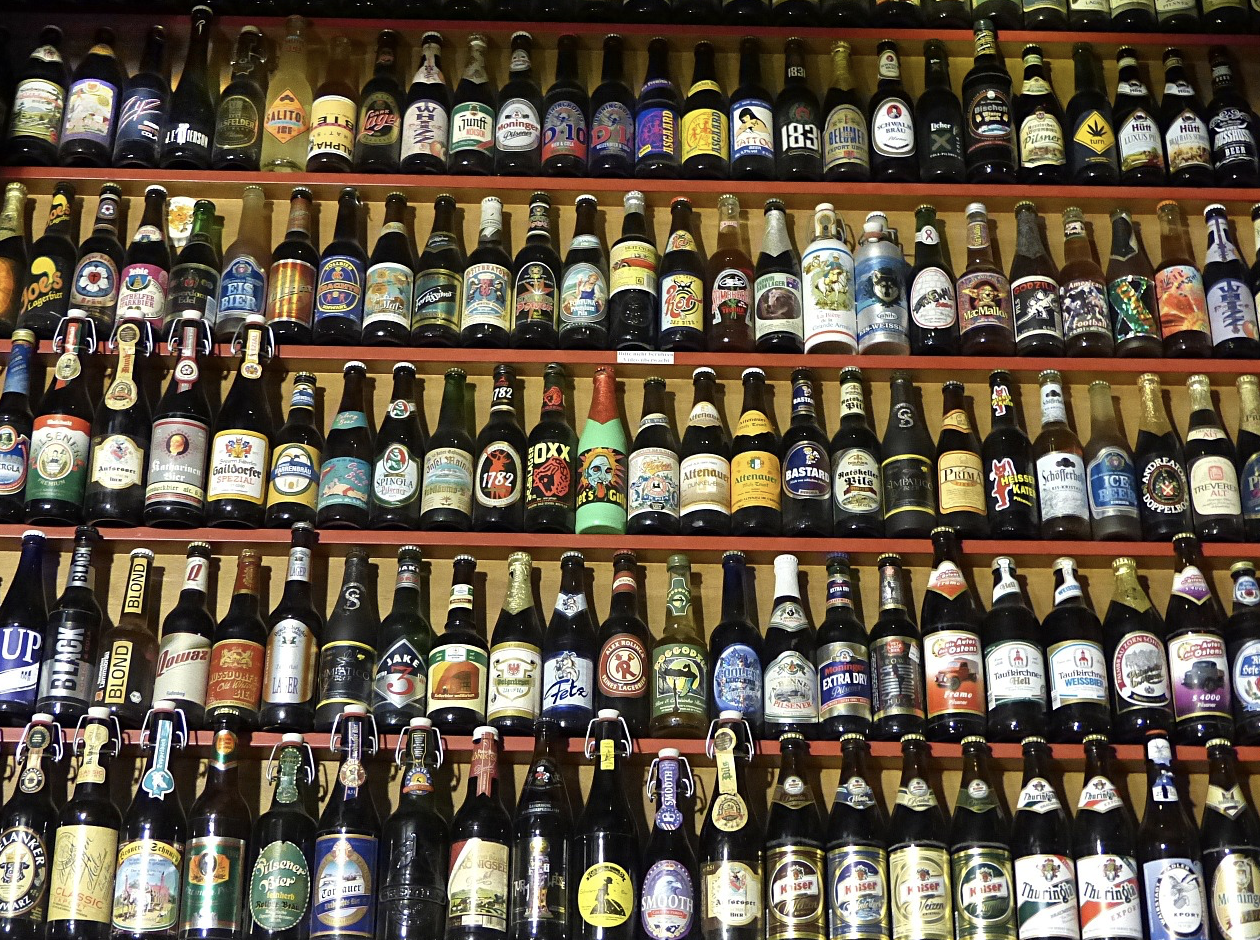
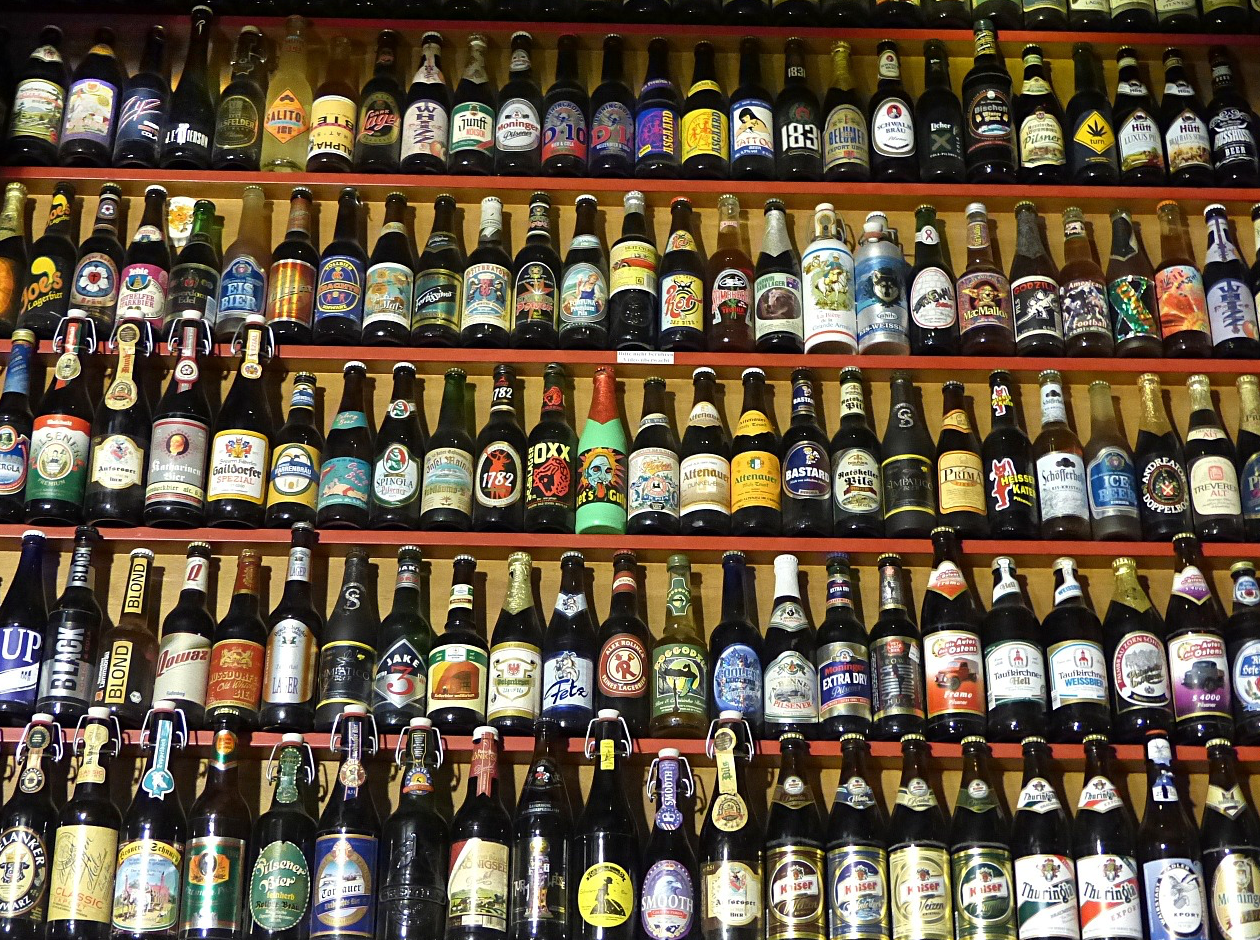
resize the image for the post

diff --git a/_site/index.html b/_site/index.html
@@ -1,1 +1,1 @@
-<!DOCTYPE html> <html lang="en" itemscope itemtype="http://schema.org/WebPage"> <head> <meta charset="utf-8"> <meta http-equiv="X-UA-Compatible" content="IE=edge"> <meta name="viewport" content="width=device-width, initial-scale=1"> <title>INNcyclopedia</title> <meta name="description" content="INN's encyclodpedia."> <!-- Social: Twitter --> <meta name="twitter:card" content="summary_large_image"> <meta name="twitter:site" content="@"> <meta name="twitter:title" content="INNcyclopedia"> <meta name="twitter:description" content="INN's encyclodpedia."> <meta property="twitter:image:src" content="http://localhost:4000/assets/img/blog-image.png"> <!-- Social: Facebook / Open Graph --> <meta property="og:url" content="http://localhost:4000/"> <meta property="og:title" content="INNcyclopedia"> <meta property="og:image" content="http://localhost:4000/assets/img/blog-image.png"> <meta property="og:description" content="INN's encyclodpedia."> <meta property="og:site_name" content="INNcyclopedia"> <!-- Social: Google+ / Schema.org --> <meta itemprop="name" content="INNcyclopedia"/> <meta itemprop="description" content="INN's encyclodpedia."> <meta itemprop="image" content="http://localhost:4000/assets/img/blog-image.png"/> <!-- Favicon --> <link rel="shortcut icon" href="/favicon.ico" type="image/x-icon" /> <!-- Apple Touch Icons --> <link rel="apple-touch-icon" href="/assets/img/icons/apple-touch-icon.png" /> <link rel="apple-touch-icon" sizes="57x57" href="/assets/img/icons/apple-touch-icon-57x57.png" /> <link rel="apple-touch-icon" sizes="72x72" href="/assets/img/icons/apple-touch-icon-72x72.png" /> <link rel="apple-touch-icon" sizes="114x114" href="/assets/img/icons/apple-touch-icon-114x114.png" /> <link rel="apple-touch-icon" sizes="144x144" href="/assets/img/icons/apple-touch-icon-144x144.png" /> <link rel="apple-touch-icon" sizes="60x60" href="/assets/img/icons/apple-touch-icon-60x60.png" /> <link rel="apple-touch-icon" sizes="120x120" href="/assets/img/icons/apple-touch-icon-120x120.png" /> <link rel="apple-touch-icon" sizes="76x76" href="/assets/img/icons/apple-touch-icon-76x76.png" /> <link rel="apple-touch-icon" sizes="152x152" href="/assets/img/icons/apple-touch-icon-152x152.png" /> <!-- Windows 8 Tile Icons --> <meta name="application-name" content="sinban Blog"> <meta name="msapplication-TileColor" content="#0562DC"> <meta name="msapplication-square70x70logo" content="smalltile.png" /> <meta name="msapplication-square150x150logo" content="mediumtile.png" /> <meta name="msapplication-wide310x150logo" content="widetile.png" /> <meta name="msapplication-square310x310logo" content="largetile.png" /> <!-- Android Lolipop Theme Color --> <meta name="theme-color" content=""> <!-- Fonts --> <link href="https://fonts.googleapis.com/css?family=Titillium+Web:300,400,700" rel="stylesheet"> <link href="https://fonts.googleapis.com/css?family=Nanum+Gothic" rel="stylesheet"> <link rel="stylesheet" href="/assets/css/main.css"> <link rel="canonical" href="http://localhost:4000/"> <link rel="alternate" type="application/rss+xml" title="INNcyclopedia" href="http://localhost:4000/feed.xml" /> </head> <body class="main-page has-push-menu"> <svg xmlns="http://www.w3.org/2000/svg" xmlns:xlink="http://www.w3.org/1999/xlink" display="none" version="1.1"><defs><symbol id="icon-menu" viewBox="0 0 1024 1024"><path class="path1" d="M128 213.333h768q17.667 0 30.167 12.5t12.5 30.167-12.5 30.167-30.167 12.5h-768q-17.667 0-30.167-12.5t-12.5-30.167 12.5-30.167 30.167-12.5zM128 725.333h768q17.667 0 30.167 12.5t12.5 30.167-12.5 30.167-30.167 12.5h-768q-17.667 0-30.167-12.5t-12.5-30.167 12.5-30.167 30.167-12.5zM128 469.333h768q17.667 0 30.167 12.5t12.5 30.167-12.5 30.167-30.167 12.5h-768q-17.667 0-30.167-12.5t-12.5-30.167 12.5-30.167 30.167-12.5z"/></symbol><symbol id="icon-search" viewBox="0 0 951 1024"><path class="path1" d="M658.286 475.429q0-105.714-75.143-180.857t-180.857-75.143-180.857 75.143-75.143 180.857 75.143 180.857 180.857 75.143 180.857-75.143 75.143-180.857zM950.857 950.857q0 29.714-21.714 51.429t-51.429 21.714q-30.857 0-51.429-21.714l-196-195.429q-102.286 70.857-228 70.857-81.714 0-156.286-31.714t-128.571-85.714-85.714-128.571-31.714-156.286 31.714-156.286 85.714-128.571 128.571-85.714 156.286-31.714 156.286 31.714 128.571 85.714 85.714 128.571 31.714 156.286q0 125.714-70.857 228l196 196q21.143 21.143 21.143 51.429z"/></symbol><symbol id="icon-close" viewBox="0 0 1000 1000"><path d="M969.8,870.3c27,27.7,27,71.8,0,99.1C955.7,983,937.9,990,920,990c-17.9,0-35.7-7-49.7-20.7L500,599L129.6,969.4C115.6,983,97.8,990,79.9,990s-35.7-7-49.7-20.7c-27-27.3-27-71.4,0-99.1L400.9,500L30.3,129.3c-27-27.3-27-71.4,0-99.1c27.3-27,71.8-27,99.4,0L500,400.9L870.4,30.2c27.7-27,71.8-27,99.4,0c27,27.7,27,71.8,0,99.1L599.1,500L969.8,870.3z"/></symbol><symbol id="icon-twitter" viewBox="0 0 951 1024"><path class="path1" d="M925.714 233.143q-38.286 56-92.571 95.429 0.571 8 0.571 24 0 74.286-21.714 148.286t-66 142-105.429 120.286-147.429 83.429-184.571 31.143q-154.857 0-283.429-82.857 20 2.286 44.571 2.286 128.571 0 229.143-78.857-60-1.143-107.429-36.857t-65.143-91.143q18.857 2.857 34.857 2.857 24.571 0 48.571-6.286-64-13.143-106-63.714t-42-117.429v-2.286q38.857 21.714 83.429 23.429-37.714-25.143-60-65.714t-22.286-88q0-50.286 25.143-93.143 69.143 85.143 168.286 136.286t212.286 56.857q-4.571-21.714-4.571-42.286 0-76.571 54-130.571t130.571-54q80 0 134.857 58.286 62.286-12 117.143-44.571-21.143 65.714-81.143 101.714 53.143-5.714 106.286-28.571z"/></symbol><symbol id="icon-facebook" viewBox="0 0 585 1024"><path class="path1" d="M548 6.857v150.857h-89.714q-49.143 0-66.286 20.571t-17.143 61.714v108h167.429l-22.286 169.143h-145.143v433.714h-174.857v-433.714h-145.714v-169.143h145.714v-124.571q0-106.286 59.429-164.857t158.286-58.571q84 0 130.286 6.857z"/></symbol><symbol id="icon-google-plus" viewBox="0 0 951 1024"><path class="path1" d="M420 454.857q0 20.571 18.286 40.286t44.286 38.857 51.714 42 44 59.429 18.286 81.143q0 51.429-27.429 98.857-41.143 69.714-120.571 102.571t-170.286 32.857q-75.429 0-140.857-23.714t-98-78.571q-21.143-34.286-21.143-74.857 0-46.286 25.429-85.714t67.714-65.714q74.857-46.857 230.857-57.143-18.286-24-27.143-42.286t-8.857-41.714q0-20.571 12-48.571-26.286 2.286-38.857 2.286-84.571 0-142.571-55.143t-58-139.714q0-46.857 20.571-90.857t56.571-74.857q44-37.714 104.286-56t124.286-18.286h238.857l-78.857 50.286h-74.857q42.286 36 64 76t21.714 91.429q0 41.143-14 74t-33.714 53.143-39.714 37.143-34 35.143-14 37.714zM336.571 400q21.714 0 44.571-9.429t37.714-24.857q30.286-32.571 30.286-90.857 0-33.143-9.714-71.429t-27.714-74-48.286-59.143-66.857-23.429q-24 0-47.143 11.143t-37.429 30q-26.857 33.714-26.857 91.429 0 26.286 5.714 55.714t18 58.857 29.714 52.857 42.857 38.286 55.143 14.857zM337.714 898.857q33.143 0 63.714-7.429t56.571-22.286 41.714-41.714 15.714-62.286q0-14.286-4-28t-8.286-24-15.429-23.714-16.857-20-22-19.714-20.857-16.571-23.714-17.143-20.857-14.857q-9.143-1.143-27.429-1.143-30.286 0-60 4t-61.429 14.286-55.429 26.286-39.143 42.571-15.429 60.286q0 40 20 70.571t52.286 47.429 68 25.143 72.857 8.286zM800.571 398.286h121.714v61.714h-121.714v125.143h-60v-125.143h-121.143v-61.714h121.143v-124h60v124z"/></symbol><symbol id="icon-clock" viewBox="0 0 1000 1000"><path d="M500,10C229.8,10,10,229.8,10,500c0,270.2,219.8,490,490,490c270.2,0,490-219.8,490-490C990,229.8,770.2,10,500,10z M500,910.2c-226.2,0-410.2-184-410.2-410.2c0-226.2,184-410.2,410.2-410.2c226.2,0,410.2,184,410.2,410.2C910.2,726.1,726.2,910.2,500,910.2z M753.1,374c8.2,11.9,5.2,28.1-6.6,36.3L509.9,573.7c-4.4,3.1-9.6,4.6-14.8,4.6c-4.1,0-8.3-1-12.1-3c-8.6-4.5-14-13.4-14-23.1V202.5c0-14.4,11.7-26.1,26.1-26.1c14.4,0,26.1,11.7,26.1,26.1v300l195.6-135.1C728.7,359.2,744.9,362.1,753.1,374z"/></symbol><symbol id="icon-calendar" viewBox="0 0 1000 1000"><path d="M920,500v420H80V500H920 M990,430H10v490c0,38.7,31.3,70,70,70h840c38.7,0,70-31.3,70-70V430L990,430z"/><path d="M850,80v105c0,57.9-47.2,105-105,105c-58,0-105-47.1-105-105V80H360v105c0,57.9-47.2,105-105,105c-58,0-105-47.1-105-105V80C72.8,80,10,142.7,10,220v140h980V220C990,142.7,927.2,80,850,80z"/><path d="M255,10c-19.3,0-35,15.8-35,35v140c0,19.2,15.7,35,35,35c19.3,0,35-15.8,35-35V45C290,25.8,274.3,10,255,10z"/><path d="M745,10c-19.3,0-35,15.8-35,35v140c0,19.2,15.7,35,35,35c19.3,0,35-15.8,35-35V45C780,25.8,764.3,10,745,10z"/></symbol><symbol id="icon-github" viewBox="0 0 12 14"><path d="M6 1q1.633 0 3.012 0.805t2.184 2.184 0.805 3.012q0 1.961-1.145 3.527t-2.957 2.168q-0.211 0.039-0.312-0.055t-0.102-0.234q0-0.023 0.004-0.598t0.004-1.051q0-0.758-0.406-1.109 0.445-0.047 0.801-0.141t0.734-0.305 0.633-0.52 0.414-0.82 0.16-1.176q0-0.93-0.617-1.609 0.289-0.711-0.062-1.594-0.219-0.070-0.633 0.086t-0.719 0.344l-0.297 0.187q-0.727-0.203-1.5-0.203t-1.5 0.203q-0.125-0.086-0.332-0.211t-0.652-0.301-0.664-0.105q-0.352 0.883-0.062 1.594-0.617 0.68-0.617 1.609 0 0.664 0.16 1.172t0.41 0.82 0.629 0.523 0.734 0.305 0.801 0.141q-0.305 0.281-0.383 0.805-0.164 0.078-0.352 0.117t-0.445 0.039-0.512-0.168-0.434-0.488q-0.148-0.25-0.379-0.406t-0.387-0.187l-0.156-0.023q-0.164 0-0.227 0.035t-0.039 0.090 0.070 0.109 0.102 0.094l0.055 0.039q0.172 0.078 0.34 0.297t0.246 0.398l0.078 0.18q0.102 0.297 0.344 0.48t0.523 0.234 0.543 0.055 0.434-0.027l0.18-0.031q0 0.297 0.004 0.691t0.004 0.426q0 0.141-0.102 0.234t-0.312 0.055q-1.812-0.602-2.957-2.168t-1.145-3.527q0-1.633 0.805-3.012t2.184-2.184 3.012-0.805zM2.273 9.617q0.023-0.055-0.055-0.094-0.078-0.023-0.102 0.016-0.023 0.055 0.055 0.094 0.070 0.047 0.102-0.016zM2.516 9.883q0.055-0.039-0.016-0.125-0.078-0.070-0.125-0.023-0.055 0.039 0.016 0.125 0.078 0.078 0.125 0.023zM2.75 10.234q0.070-0.055 0-0.148-0.062-0.102-0.133-0.047-0.070 0.039 0 0.141t0.133 0.055zM3.078 10.562q0.062-0.062-0.031-0.148-0.094-0.094-0.156-0.023-0.070 0.062 0.031 0.148 0.094 0.094 0.156 0.023zM3.523 10.758q0.023-0.086-0.102-0.125-0.117-0.031-0.148 0.055t0.102 0.117q0.117 0.047 0.148-0.047zM4.016 10.797q0-0.102-0.133-0.086-0.125 0-0.125 0.086 0 0.102 0.133 0.086 0.125 0 0.125-0.086zM4.469 10.719q-0.016-0.086-0.141-0.070-0.125 0.023-0.109 0.117t0.141 0.062 0.109-0.109z"></path></symbol><symbol id="icon-medium" viewBox="0 0 1000 1000"><path d="M336.5,240.2v641.5c0,9.1-2.3,16.9-6.8,23.2s-11.2,9.6-20,9.6c-6.2,0-12.2-1.5-18-4.4L37.3,782.7c-7.7-3.6-14.1-9.8-19.4-18.3S10,747.4,10,739V115.5c0-7.3,1.8-13.5,5.5-18.6c3.6-5.1,8.9-7.7,15.9-7.7c5.1,0,13.1,2.7,24.1,8.2l279.5,140C335.9,238.6,336.5,239.5,336.5,240.2L336.5,240.2z M371.5,295.5l292,473.6l-292-145.5V295.5z M990,305.3v576.4c0,9.1-2.6,16.5-7.7,22.1c-5.1,5.7-12,8.5-20.8,8.5s-17.3-2.4-25.7-7.1L694.7,784.9L990,305.3z M988.4,239.7c0,1.1-46.8,77.6-140.3,229.4C754.6,621,699.8,709.8,683.8,735.7L470.5,389l177.2-288.2c6.2-10.2,15.7-15.3,28.4-15.3c5.1,0,9.8,1.1,14.2,3.3l295.9,147.7C987.6,237.1,988.4,238.2,988.4,239.7L988.4,239.7z"/></symbol><symbol id="icon-instagram" viewBox="0 0 489.84 489.84"><path d="M249.62,50.46c65.4,0,73.14.25,99,1.43C372.47,53,385.44,57,394.07,60.32a75.88,75.88,0,0,1,28.16,18.32,75.88,75.88,0,0,1,18.32,28.16c3.35,8.63,7.34,21.6,8.43,45.48,1.18,25.83,1.43,33.57,1.43,99s-0.25,73.14-1.43,99c-1.09,23.88-5.08,36.85-8.43,45.48a81.11,81.11,0,0,1-46.48,46.48c-8.63,3.35-21.6,7.34-45.48,8.43-25.82,1.18-33.57,1.43-99,1.43s-73.15-.25-99-1.43c-23.88-1.09-36.85-5.08-45.48-8.43A75.88,75.88,0,0,1,77,423.86,75.88,75.88,0,0,1,58.69,395.7c-3.35-8.63-7.34-21.6-8.43-45.48-1.18-25.83-1.43-33.57-1.43-99s0.25-73.14,1.43-99c1.09-23.88,5.08-36.85,8.43-45.48A75.88,75.88,0,0,1,77,78.64a75.88,75.88,0,0,1,28.16-18.32c8.63-3.35,21.6-7.34,45.48-8.43,25.83-1.18,33.57-1.43,99-1.43m0-44.13c-66.52,0-74.86.28-101,1.47s-43.87,5.33-59.45,11.38A120.06,120.06,0,0,0,45.81,47.44,120.06,120.06,0,0,0,17.56,90.82C11.5,106.4,7.36,124.2,6.17,150.27s-1.47,34.46-1.47,101,0.28,74.86,1.47,101,5.33,43.87,11.38,59.45a120.06,120.06,0,0,0,28.25,43.38,120.06,120.06,0,0,0,43.38,28.25c15.58,6.05,33.38,10.19,59.45,11.38s34.46,1.47,101,1.47,74.86-.28,101-1.47,43.87-5.33,59.45-11.38a125.24,125.24,0,0,0,71.63-71.63c6.05-15.58,10.19-33.38,11.38-59.45s1.47-34.46,1.47-101-0.28-74.86-1.47-101-5.33-43.87-11.38-59.45a120.06,120.06,0,0,0-28.25-43.38,120.06,120.06,0,0,0-43.38-28.25C394.47,13.13,376.67,9,350.6,7.8s-34.46-1.47-101-1.47h0Z" transform="translate(-4.7 -6.33)" /><path d="M249.62,125.48A125.77,125.77,0,1,0,375.39,251.25,125.77,125.77,0,0,0,249.62,125.48Zm0,207.41a81.64,81.64,0,1,1,81.64-81.64A81.64,81.64,0,0,1,249.62,332.89Z" transform="translate(-4.7 -6.33)"/><circle cx="375.66" cy="114.18" r="29.39" /></symbol><symbol id="icon-linkedin" viewBox="0 0 12 14"><path d="M2.727 4.883v7.742h-2.578v-7.742h2.578zM2.891 2.492q0.008 0.57-0.395 0.953t-1.059 0.383h-0.016q-0.641 0-1.031-0.383t-0.391-0.953q0-0.578 0.402-0.957t1.051-0.379 1.039 0.379 0.398 0.957zM12 8.187v4.437h-2.57v-4.141q0-0.82-0.316-1.285t-0.988-0.465q-0.492 0-0.824 0.27t-0.496 0.668q-0.086 0.234-0.086 0.633v4.32h-2.57q0.016-3.117 0.016-5.055t-0.008-2.313l-0.008-0.375h2.57v1.125h-0.016q0.156-0.25 0.32-0.438t0.441-0.406 0.68-0.34 0.895-0.121q1.336 0 2.148 0.887t0.813 2.598z"></path></symbol><symbol id="icon-heart" viewBox="0 0 34 30"><path d="M17,29.7 L16.4,29.2 C3.5,18.7 0,15 0,9 C0,4 4,0 9,0 C13.1,0 15.4,2.3 17,4.1 C18.6,2.3 20.9,0 25,0 C30,0 34,4 34,9 C34,15 30.5,18.7 17.6,29.2 L17,29.7 Z M9,2 C5.1,2 2,5.1 2,9 C2,14.1 5.2,17.5 17,27.1 C28.8,17.5 32,14.1 32,9 C32,5.1 28.9,2 25,2 C21.5,2 19.6,4.1 18.1,5.8 L17,7.1 L15.9,5.8 C14.4,4.1 12.5,2 9,2 Z" id="Shape"></path></symbol></defs></svg> <header class="bar-header"> <a id="menu"> <svg id="open" class="icon-menu"><use xlink:href="#icon-menu"></use></svg> </a> <a id="search" class="dosearch"> <svg class="icon-search"><use xlink:href="#icon-search"></use></svg> </a> <h1 class="logo"> <a href="/"> INNcyclopedia </a> </h1> </header> <div id="mask" class="overlay"></div> <aside id="sidebar"> <nav id="navigation"> <h2>Menu</h2> <ul> <li><a href="http://localhost:4000/">Home</a></li> <li><a href="http://localhost:4000/about/">About</a></li> <li><a href="http://localhost:4000/contact/">Contact</a></li> <li><a class="feed" href="http://localhost:4000/feed.xml" title="Atom/RSS feed">Feed</a></li> </ul> </nav> </aside> <div class="search-wrapper"> <div class="search-form"> <input type="text" class="search-field" placeholder="Search"> <svg class="icon-remove-sign"><use xlink:href="#icon-close"></use></svg> <ul class="search-results search-list"></ul> </div> </div> <section class="content"> <main class="home" id="post" role="main" itemprop="mainContentOfPage" itemscope="itemscope" itemtype="http://schema.org/Blog"> <div id="grid" class="row flex-grid"> <article class="box-item" itemscope="itemscope" itemtype="http://schema.org/BlogPosting" itemprop="blogPost"> <span class="category"> <a href="http://localhost:4000/categoria/"> <span></span> </a> </span> <div class="box-body"> <div class="cover"> <a href="/variety-of-beer/" class="new-post"> <img src="assets/img/placeholder.png" data-url="/assets/img/for-post/beers.png" class="preload" /> </a> </div> <div class="box-info"> <meta itemprop="datePublished" content="2018-04-24T11:27:12+09:00" /> <time itemprop="datePublished" datetime="2018-04-24T11:27:12+09:00" class="date"> April 24, 2018 </time> <a class="post-link" href="/variety-of-beer/"> <h2 class="post-title" itemprop="name"> variety-of-beer </h2> </a> <a class="post-link" href="/variety-of-beer/"> <p class="description"></p> </a> <div class="tags"> </div> </div> </div> </article> <article class="box-item" itemscope="itemscope" itemtype="http://schema.org/BlogPosting" itemprop="blogPost"> <span class="category"> <a href="http://localhost:4000/categoria/"> <span></span> </a> </span> <div class="box-body"> <div class="cover"> <a href="/display/" class="new-post"> <img src="assets/img/placeholder.png" data-url="../assets/img/for-post/imac.png" class="preload" /> </a> </div> <div class="box-info"> <meta itemprop="datePublished" content="2018-04-24T11:13:06+09:00" /> <time itemprop="datePublished" datetime="2018-04-24T11:13:06+09:00" class="date"> April 24, 2018 </time> <a class="post-link" href="/display/"> <h2 class="post-title" itemprop="name"> display </h2> </a> <a class="post-link" href="/display/"> <p class="description"></p> </a> <div class="tags"> </div> </div> </div> </article> </div> </main> </section> <footer> <p> <a itemprop="github" href="https://github.com/sinban04" title="Github"> <svg><use xlink:href="#icon-github"></use></svg> </a> <a itemprop="instagram" href="https://www.instagram.com/sinban04" title="Instagram"> <svg><use xlink:href="#icon-instagram"></use></svg> </a> <a itemprop="linkedin" href="https://www.linkedin.com/in/sinban04" title="LinkedIn"> <svg><use xlink:href="#icon-linkedin"></use></svg> </a> </p> <ul> <li><a href="http://localhost:4000/">Home</a></li> <li><a href="http://localhost:4000/about/">About</a></li> <li><a href="http://localhost:4000/contact/">Contact</a></li> <li><a class="feed" href="http://localhost:4000/feed.xml" title="Atom/RSS feed">Feed</a></li> </ul> <p><span>Jekflix</span> was made with <svg class="love"><use xlink:href="#icon-heart"></use></svg> by <a href="http://www.rossener.com" target="_blank" class="creator">Thiago Rossener</a></p> </footer> <script src="/assets/js/main.js"></script> <script> (function(i,s,o,g,r,a,m){i['GoogleAnalyticsObject']=r;i[r]=i[r]||function(){ (i[r].q=i[r].q||[]).push(arguments)},i[r].l=1*new Date();a=s.createElement(o), m=s.getElementsByTagName(o)[0];a.async=1;a.src=g;m.parentNode.insertBefore(a,m) })(window,document,'script','https://www.google-analytics.com/analytics.js','ga'); ga('create', 'UA-XXXXXXXX-X', 'auto'); ga('send', 'pageview'); </script> </body> </html>
+<!DOCTYPE html> <html lang="en" itemscope itemtype="http://schema.org/WebPage"> <head> <meta charset="utf-8"> <meta http-equiv="X-UA-Compatible" content="IE=edge"> <meta name="viewport" content="width=device-width, initial-scale=1"> <title>INNcyclopedia</title> <meta name="description" content="INN's encyclodpedia."> <!-- Social: Twitter --> <meta name="twitter:card" content="summary_large_image"> <meta name="twitter:site" content="@"> <meta name="twitter:title" content="INNcyclopedia"> <meta name="twitter:description" content="INN's encyclodpedia."> <meta property="twitter:image:src" content="http://localhost:4000/assets/img/blog-image.png"> <!-- Social: Facebook / Open Graph --> <meta property="og:url" content="http://localhost:4000/"> <meta property="og:title" content="INNcyclopedia"> <meta property="og:image" content="http://localhost:4000/assets/img/blog-image.png"> <meta property="og:description" content="INN's encyclodpedia."> <meta property="og:site_name" content="INNcyclopedia"> <!-- Social: Google+ / Schema.org --> <meta itemprop="name" content="INNcyclopedia"/> <meta itemprop="description" content="INN's encyclodpedia."> <meta itemprop="image" content="http://localhost:4000/assets/img/blog-image.png"/> <!-- Favicon --> <link rel="shortcut icon" href="/favicon.ico" type="image/x-icon" /> <!-- Apple Touch Icons --> <link rel="apple-touch-icon" href="/assets/img/icons/apple-touch-icon.png" /> <link rel="apple-touch-icon" sizes="57x57" href="/assets/img/icons/apple-touch-icon-57x57.png" /> <link rel="apple-touch-icon" sizes="72x72" href="/assets/img/icons/apple-touch-icon-72x72.png" /> <link rel="apple-touch-icon" sizes="114x114" href="/assets/img/icons/apple-touch-icon-114x114.png" /> <link rel="apple-touch-icon" sizes="144x144" href="/assets/img/icons/apple-touch-icon-144x144.png" /> <link rel="apple-touch-icon" sizes="60x60" href="/assets/img/icons/apple-touch-icon-60x60.png" /> <link rel="apple-touch-icon" sizes="120x120" href="/assets/img/icons/apple-touch-icon-120x120.png" /> <link rel="apple-touch-icon" sizes="76x76" href="/assets/img/icons/apple-touch-icon-76x76.png" /> <link rel="apple-touch-icon" sizes="152x152" href="/assets/img/icons/apple-touch-icon-152x152.png" /> <!-- Windows 8 Tile Icons --> <meta name="application-name" content="sinban Blog"> <meta name="msapplication-TileColor" content="#0562DC"> <meta name="msapplication-square70x70logo" content="smalltile.png" /> <meta name="msapplication-square150x150logo" content="mediumtile.png" /> <meta name="msapplication-wide310x150logo" content="widetile.png" /> <meta name="msapplication-square310x310logo" content="largetile.png" /> <!-- Android Lolipop Theme Color --> <meta name="theme-color" content=""> <!-- Fonts --> <link href="https://fonts.googleapis.com/css?family=Titillium+Web:300,400,700" rel="stylesheet"> <link href="https://fonts.googleapis.com/css?family=Nanum+Gothic" rel="stylesheet"> <link rel="stylesheet" href="/assets/css/main.css"> <link rel="canonical" href="http://localhost:4000/"> <link rel="alternate" type="application/rss+xml" title="INNcyclopedia" href="http://localhost:4000/feed.xml" /> </head> <body class="main-page has-push-menu"> <svg xmlns="http://www.w3.org/2000/svg" xmlns:xlink="http://www.w3.org/1999/xlink" display="none" version="1.1"><defs><symbol id="icon-menu" viewBox="0 0 1024 1024"><path class="path1" d="M128 213.333h768q17.667 0 30.167 12.5t12.5 30.167-12.5 30.167-30.167 12.5h-768q-17.667 0-30.167-12.5t-12.5-30.167 12.5-30.167 30.167-12.5zM128 725.333h768q17.667 0 30.167 12.5t12.5 30.167-12.5 30.167-30.167 12.5h-768q-17.667 0-30.167-12.5t-12.5-30.167 12.5-30.167 30.167-12.5zM128 469.333h768q17.667 0 30.167 12.5t12.5 30.167-12.5 30.167-30.167 12.5h-768q-17.667 0-30.167-12.5t-12.5-30.167 12.5-30.167 30.167-12.5z"/></symbol><symbol id="icon-search" viewBox="0 0 951 1024"><path class="path1" d="M658.286 475.429q0-105.714-75.143-180.857t-180.857-75.143-180.857 75.143-75.143 180.857 75.143 180.857 180.857 75.143 180.857-75.143 75.143-180.857zM950.857 950.857q0 29.714-21.714 51.429t-51.429 21.714q-30.857 0-51.429-21.714l-196-195.429q-102.286 70.857-228 70.857-81.714 0-156.286-31.714t-128.571-85.714-85.714-128.571-31.714-156.286 31.714-156.286 85.714-128.571 128.571-85.714 156.286-31.714 156.286 31.714 128.571 85.714 85.714 128.571 31.714 156.286q0 125.714-70.857 228l196 196q21.143 21.143 21.143 51.429z"/></symbol><symbol id="icon-close" viewBox="0 0 1000 1000"><path d="M969.8,870.3c27,27.7,27,71.8,0,99.1C955.7,983,937.9,990,920,990c-17.9,0-35.7-7-49.7-20.7L500,599L129.6,969.4C115.6,983,97.8,990,79.9,990s-35.7-7-49.7-20.7c-27-27.3-27-71.4,0-99.1L400.9,500L30.3,129.3c-27-27.3-27-71.4,0-99.1c27.3-27,71.8-27,99.4,0L500,400.9L870.4,30.2c27.7-27,71.8-27,99.4,0c27,27.7,27,71.8,0,99.1L599.1,500L969.8,870.3z"/></symbol><symbol id="icon-twitter" viewBox="0 0 951 1024"><path class="path1" d="M925.714 233.143q-38.286 56-92.571 95.429 0.571 8 0.571 24 0 74.286-21.714 148.286t-66 142-105.429 120.286-147.429 83.429-184.571 31.143q-154.857 0-283.429-82.857 20 2.286 44.571 2.286 128.571 0 229.143-78.857-60-1.143-107.429-36.857t-65.143-91.143q18.857 2.857 34.857 2.857 24.571 0 48.571-6.286-64-13.143-106-63.714t-42-117.429v-2.286q38.857 21.714 83.429 23.429-37.714-25.143-60-65.714t-22.286-88q0-50.286 25.143-93.143 69.143 85.143 168.286 136.286t212.286 56.857q-4.571-21.714-4.571-42.286 0-76.571 54-130.571t130.571-54q80 0 134.857 58.286 62.286-12 117.143-44.571-21.143 65.714-81.143 101.714 53.143-5.714 106.286-28.571z"/></symbol><symbol id="icon-facebook" viewBox="0 0 585 1024"><path class="path1" d="M548 6.857v150.857h-89.714q-49.143 0-66.286 20.571t-17.143 61.714v108h167.429l-22.286 169.143h-145.143v433.714h-174.857v-433.714h-145.714v-169.143h145.714v-124.571q0-106.286 59.429-164.857t158.286-58.571q84 0 130.286 6.857z"/></symbol><symbol id="icon-google-plus" viewBox="0 0 951 1024"><path class="path1" d="M420 454.857q0 20.571 18.286 40.286t44.286 38.857 51.714 42 44 59.429 18.286 81.143q0 51.429-27.429 98.857-41.143 69.714-120.571 102.571t-170.286 32.857q-75.429 0-140.857-23.714t-98-78.571q-21.143-34.286-21.143-74.857 0-46.286 25.429-85.714t67.714-65.714q74.857-46.857 230.857-57.143-18.286-24-27.143-42.286t-8.857-41.714q0-20.571 12-48.571-26.286 2.286-38.857 2.286-84.571 0-142.571-55.143t-58-139.714q0-46.857 20.571-90.857t56.571-74.857q44-37.714 104.286-56t124.286-18.286h238.857l-78.857 50.286h-74.857q42.286 36 64 76t21.714 91.429q0 41.143-14 74t-33.714 53.143-39.714 37.143-34 35.143-14 37.714zM336.571 400q21.714 0 44.571-9.429t37.714-24.857q30.286-32.571 30.286-90.857 0-33.143-9.714-71.429t-27.714-74-48.286-59.143-66.857-23.429q-24 0-47.143 11.143t-37.429 30q-26.857 33.714-26.857 91.429 0 26.286 5.714 55.714t18 58.857 29.714 52.857 42.857 38.286 55.143 14.857zM337.714 898.857q33.143 0 63.714-7.429t56.571-22.286 41.714-41.714 15.714-62.286q0-14.286-4-28t-8.286-24-15.429-23.714-16.857-20-22-19.714-20.857-16.571-23.714-17.143-20.857-14.857q-9.143-1.143-27.429-1.143-30.286 0-60 4t-61.429 14.286-55.429 26.286-39.143 42.571-15.429 60.286q0 40 20 70.571t52.286 47.429 68 25.143 72.857 8.286zM800.571 398.286h121.714v61.714h-121.714v125.143h-60v-125.143h-121.143v-61.714h121.143v-124h60v124z"/></symbol><symbol id="icon-clock" viewBox="0 0 1000 1000"><path d="M500,10C229.8,10,10,229.8,10,500c0,270.2,219.8,490,490,490c270.2,0,490-219.8,490-490C990,229.8,770.2,10,500,10z M500,910.2c-226.2,0-410.2-184-410.2-410.2c0-226.2,184-410.2,410.2-410.2c226.2,0,410.2,184,410.2,410.2C910.2,726.1,726.2,910.2,500,910.2z M753.1,374c8.2,11.9,5.2,28.1-6.6,36.3L509.9,573.7c-4.4,3.1-9.6,4.6-14.8,4.6c-4.1,0-8.3-1-12.1-3c-8.6-4.5-14-13.4-14-23.1V202.5c0-14.4,11.7-26.1,26.1-26.1c14.4,0,26.1,11.7,26.1,26.1v300l195.6-135.1C728.7,359.2,744.9,362.1,753.1,374z"/></symbol><symbol id="icon-calendar" viewBox="0 0 1000 1000"><path d="M920,500v420H80V500H920 M990,430H10v490c0,38.7,31.3,70,70,70h840c38.7,0,70-31.3,70-70V430L990,430z"/><path d="M850,80v105c0,57.9-47.2,105-105,105c-58,0-105-47.1-105-105V80H360v105c0,57.9-47.2,105-105,105c-58,0-105-47.1-105-105V80C72.8,80,10,142.7,10,220v140h980V220C990,142.7,927.2,80,850,80z"/><path d="M255,10c-19.3,0-35,15.8-35,35v140c0,19.2,15.7,35,35,35c19.3,0,35-15.8,35-35V45C290,25.8,274.3,10,255,10z"/><path d="M745,10c-19.3,0-35,15.8-35,35v140c0,19.2,15.7,35,35,35c19.3,0,35-15.8,35-35V45C780,25.8,764.3,10,745,10z"/></symbol><symbol id="icon-github" viewBox="0 0 12 14"><path d="M6 1q1.633 0 3.012 0.805t2.184 2.184 0.805 3.012q0 1.961-1.145 3.527t-2.957 2.168q-0.211 0.039-0.312-0.055t-0.102-0.234q0-0.023 0.004-0.598t0.004-1.051q0-0.758-0.406-1.109 0.445-0.047 0.801-0.141t0.734-0.305 0.633-0.52 0.414-0.82 0.16-1.176q0-0.93-0.617-1.609 0.289-0.711-0.062-1.594-0.219-0.070-0.633 0.086t-0.719 0.344l-0.297 0.187q-0.727-0.203-1.5-0.203t-1.5 0.203q-0.125-0.086-0.332-0.211t-0.652-0.301-0.664-0.105q-0.352 0.883-0.062 1.594-0.617 0.68-0.617 1.609 0 0.664 0.16 1.172t0.41 0.82 0.629 0.523 0.734 0.305 0.801 0.141q-0.305 0.281-0.383 0.805-0.164 0.078-0.352 0.117t-0.445 0.039-0.512-0.168-0.434-0.488q-0.148-0.25-0.379-0.406t-0.387-0.187l-0.156-0.023q-0.164 0-0.227 0.035t-0.039 0.090 0.070 0.109 0.102 0.094l0.055 0.039q0.172 0.078 0.34 0.297t0.246 0.398l0.078 0.18q0.102 0.297 0.344 0.48t0.523 0.234 0.543 0.055 0.434-0.027l0.18-0.031q0 0.297 0.004 0.691t0.004 0.426q0 0.141-0.102 0.234t-0.312 0.055q-1.812-0.602-2.957-2.168t-1.145-3.527q0-1.633 0.805-3.012t2.184-2.184 3.012-0.805zM2.273 9.617q0.023-0.055-0.055-0.094-0.078-0.023-0.102 0.016-0.023 0.055 0.055 0.094 0.070 0.047 0.102-0.016zM2.516 9.883q0.055-0.039-0.016-0.125-0.078-0.070-0.125-0.023-0.055 0.039 0.016 0.125 0.078 0.078 0.125 0.023zM2.75 10.234q0.070-0.055 0-0.148-0.062-0.102-0.133-0.047-0.070 0.039 0 0.141t0.133 0.055zM3.078 10.562q0.062-0.062-0.031-0.148-0.094-0.094-0.156-0.023-0.070 0.062 0.031 0.148 0.094 0.094 0.156 0.023zM3.523 10.758q0.023-0.086-0.102-0.125-0.117-0.031-0.148 0.055t0.102 0.117q0.117 0.047 0.148-0.047zM4.016 10.797q0-0.102-0.133-0.086-0.125 0-0.125 0.086 0 0.102 0.133 0.086 0.125 0 0.125-0.086zM4.469 10.719q-0.016-0.086-0.141-0.070-0.125 0.023-0.109 0.117t0.141 0.062 0.109-0.109z"></path></symbol><symbol id="icon-medium" viewBox="0 0 1000 1000"><path d="M336.5,240.2v641.5c0,9.1-2.3,16.9-6.8,23.2s-11.2,9.6-20,9.6c-6.2,0-12.2-1.5-18-4.4L37.3,782.7c-7.7-3.6-14.1-9.8-19.4-18.3S10,747.4,10,739V115.5c0-7.3,1.8-13.5,5.5-18.6c3.6-5.1,8.9-7.7,15.9-7.7c5.1,0,13.1,2.7,24.1,8.2l279.5,140C335.9,238.6,336.5,239.5,336.5,240.2L336.5,240.2z M371.5,295.5l292,473.6l-292-145.5V295.5z M990,305.3v576.4c0,9.1-2.6,16.5-7.7,22.1c-5.1,5.7-12,8.5-20.8,8.5s-17.3-2.4-25.7-7.1L694.7,784.9L990,305.3z M988.4,239.7c0,1.1-46.8,77.6-140.3,229.4C754.6,621,699.8,709.8,683.8,735.7L470.5,389l177.2-288.2c6.2-10.2,15.7-15.3,28.4-15.3c5.1,0,9.8,1.1,14.2,3.3l295.9,147.7C987.6,237.1,988.4,238.2,988.4,239.7L988.4,239.7z"/></symbol><symbol id="icon-instagram" viewBox="0 0 489.84 489.84"><path d="M249.62,50.46c65.4,0,73.14.25,99,1.43C372.47,53,385.44,57,394.07,60.32a75.88,75.88,0,0,1,28.16,18.32,75.88,75.88,0,0,1,18.32,28.16c3.35,8.63,7.34,21.6,8.43,45.48,1.18,25.83,1.43,33.57,1.43,99s-0.25,73.14-1.43,99c-1.09,23.88-5.08,36.85-8.43,45.48a81.11,81.11,0,0,1-46.48,46.48c-8.63,3.35-21.6,7.34-45.48,8.43-25.82,1.18-33.57,1.43-99,1.43s-73.15-.25-99-1.43c-23.88-1.09-36.85-5.08-45.48-8.43A75.88,75.88,0,0,1,77,423.86,75.88,75.88,0,0,1,58.69,395.7c-3.35-8.63-7.34-21.6-8.43-45.48-1.18-25.83-1.43-33.57-1.43-99s0.25-73.14,1.43-99c1.09-23.88,5.08-36.85,8.43-45.48A75.88,75.88,0,0,1,77,78.64a75.88,75.88,0,0,1,28.16-18.32c8.63-3.35,21.6-7.34,45.48-8.43,25.83-1.18,33.57-1.43,99-1.43m0-44.13c-66.52,0-74.86.28-101,1.47s-43.87,5.33-59.45,11.38A120.06,120.06,0,0,0,45.81,47.44,120.06,120.06,0,0,0,17.56,90.82C11.5,106.4,7.36,124.2,6.17,150.27s-1.47,34.46-1.47,101,0.28,74.86,1.47,101,5.33,43.87,11.38,59.45a120.06,120.06,0,0,0,28.25,43.38,120.06,120.06,0,0,0,43.38,28.25c15.58,6.05,33.38,10.19,59.45,11.38s34.46,1.47,101,1.47,74.86-.28,101-1.47,43.87-5.33,59.45-11.38a125.24,125.24,0,0,0,71.63-71.63c6.05-15.58,10.19-33.38,11.38-59.45s1.47-34.46,1.47-101-0.28-74.86-1.47-101-5.33-43.87-11.38-59.45a120.06,120.06,0,0,0-28.25-43.38,120.06,120.06,0,0,0-43.38-28.25C394.47,13.13,376.67,9,350.6,7.8s-34.46-1.47-101-1.47h0Z" transform="translate(-4.7 -6.33)" /><path d="M249.62,125.48A125.77,125.77,0,1,0,375.39,251.25,125.77,125.77,0,0,0,249.62,125.48Zm0,207.41a81.64,81.64,0,1,1,81.64-81.64A81.64,81.64,0,0,1,249.62,332.89Z" transform="translate(-4.7 -6.33)"/><circle cx="375.66" cy="114.18" r="29.39" /></symbol><symbol id="icon-linkedin" viewBox="0 0 12 14"><path d="M2.727 4.883v7.742h-2.578v-7.742h2.578zM2.891 2.492q0.008 0.57-0.395 0.953t-1.059 0.383h-0.016q-0.641 0-1.031-0.383t-0.391-0.953q0-0.578 0.402-0.957t1.051-0.379 1.039 0.379 0.398 0.957zM12 8.187v4.437h-2.57v-4.141q0-0.82-0.316-1.285t-0.988-0.465q-0.492 0-0.824 0.27t-0.496 0.668q-0.086 0.234-0.086 0.633v4.32h-2.57q0.016-3.117 0.016-5.055t-0.008-2.313l-0.008-0.375h2.57v1.125h-0.016q0.156-0.25 0.32-0.438t0.441-0.406 0.68-0.34 0.895-0.121q1.336 0 2.148 0.887t0.813 2.598z"></path></symbol><symbol id="icon-heart" viewBox="0 0 34 30"><path d="M17,29.7 L16.4,29.2 C3.5,18.7 0,15 0,9 C0,4 4,0 9,0 C13.1,0 15.4,2.3 17,4.1 C18.6,2.3 20.9,0 25,0 C30,0 34,4 34,9 C34,15 30.5,18.7 17.6,29.2 L17,29.7 Z M9,2 C5.1,2 2,5.1 2,9 C2,14.1 5.2,17.5 17,27.1 C28.8,17.5 32,14.1 32,9 C32,5.1 28.9,2 25,2 C21.5,2 19.6,4.1 18.1,5.8 L17,7.1 L15.9,5.8 C14.4,4.1 12.5,2 9,2 Z" id="Shape"></path></symbol></defs></svg> <header class="bar-header"> <a id="menu"> <svg id="open" class="icon-menu"><use xlink:href="#icon-menu"></use></svg> </a> <a id="search" class="dosearch"> <svg class="icon-search"><use xlink:href="#icon-search"></use></svg> </a> <h1 class="logo"> <a href="/"> INNcyclopedia </a> </h1> </header> <div id="mask" class="overlay"></div> <aside id="sidebar"> <nav id="navigation"> <h2>Menu</h2> <ul> <li><a href="http://localhost:4000/">Home</a></li> <li><a href="http://localhost:4000/about/">About</a></li> <li><a href="http://localhost:4000/contact/">Contact</a></li> <li><a class="feed" href="http://localhost:4000/feed.xml" title="Atom/RSS feed">Feed</a></li> </ul> </nav> </aside> <div class="search-wrapper"> <div class="search-form"> <input type="text" class="search-field" placeholder="Search"> <svg class="icon-remove-sign"><use xlink:href="#icon-close"></use></svg> <ul class="search-results search-list"></ul> </div> </div> <section class="content"> <main class="home" id="post" role="main" itemprop="mainContentOfPage" itemscope="itemscope" itemtype="http://schema.org/Blog"> <div id="grid" class="row flex-grid"> <article class="box-item" itemscope="itemscope" itemtype="http://schema.org/BlogPosting" itemprop="blogPost"> <span class="category"> <a href="http://localhost:4000/categoria/"> <span></span> </a> </span> <div class="box-body"> <div class="cover"> <a href="/variety-of-beer/" class="new-post"> <img src="assets/img/placeholder.png" data-url="/assets/img/for-post/beers-small.png" class="preload" /> </a> </div> <div class="box-info"> <meta itemprop="datePublished" content="2018-04-24T11:27:12+09:00" /> <time itemprop="datePublished" datetime="2018-04-24T11:27:12+09:00" class="date"> April 24, 2018 </time> <a class="post-link" href="/variety-of-beer/"> <h2 class="post-title" itemprop="name"> variety-of-beer </h2> </a> <a class="post-link" href="/variety-of-beer/"> <p class="description"></p> </a> <div class="tags"> </div> </div> </div> </article> <article class="box-item" itemscope="itemscope" itemtype="http://schema.org/BlogPosting" itemprop="blogPost"> <span class="category"> <a href="http://localhost:4000/categoria/"> <span></span> </a> </span> <div class="box-body"> <div class="cover"> <a href="/display/" class="new-post"> <img src="assets/img/placeholder.png" data-url="/assets/img/for-post/imac-small.png" class="preload" /> </a> </div> <div class="box-info"> <meta itemprop="datePublished" content="2018-04-24T11:13:06+09:00" /> <time itemprop="datePublished" datetime="2018-04-24T11:13:06+09:00" class="date"> April 24, 2018 </time> <a class="post-link" href="/display/"> <h2 class="post-title" itemprop="name"> display </h2> </a> <a class="post-link" href="/display/"> <p class="description"></p> </a> <div class="tags"> </div> </div> </div> </article> </div> </main> </section> <footer> <p> <a itemprop="github" href="https://github.com/sinban04" title="Github"> <svg><use xlink:href="#icon-github"></use></svg> </a> <a itemprop="instagram" href="https://www.instagram.com/sinban04" title="Instagram"> <svg><use xlink:href="#icon-instagram"></use></svg> </a> <a itemprop="linkedin" href="https://www.linkedin.com/in/sinban04" title="LinkedIn"> <svg><use xlink:href="#icon-linkedin"></use></svg> </a> </p> <ul> <li><a href="http://localhost:4000/">Home</a></li> <li><a href="http://localhost:4000/about/">About</a></li> <li><a href="http://localhost:4000/contact/">Contact</a></li> <li><a class="feed" href="http://localhost:4000/feed.xml" title="Atom/RSS feed">Feed</a></li> </ul> <p><span>Jekflix</span> was made with <svg class="love"><use xlink:href="#icon-heart"></use></svg> by <a href="http://www.rossener.com" target="_blank" class="creator">Thiago Rossener</a></p> </footer> <script src="/assets/js/main.js"></script> <script> (function(i,s,o,g,r,a,m){i['GoogleAnalyticsObject']=r;i[r]=i[r]||function(){ (i[r].q=i[r].q||[]).push(arguments)},i[r].l=1*new Date();a=s.createElement(o), m=s.getElementsByTagName(o)[0];a.async=1;a.src=g;m.parentNode.insertBefore(a,m) })(window,document,'script','https://www.google-analytics.com/analytics.js','ga'); ga('create', 'UA-XXXXXXXX-X', 'auto'); ga('send', 'pageview'); </script> </body> </html>

diff --git a/_site/variety-of-beer/index.html b/_site/variety-of-beer/index.html
@@ -14,14 +14,14 @@
     <meta name="twitter:title" content="variety-of-beer | sinban">
     <meta name="twitter:description" content="INN's encyclodpedia.">
     
-    <meta property="twitter:image:src" content="/assets/img/for-post/beers.png">
+    <meta property="twitter:image:src" content="/assets/img/for-post/beers-small.png">
     
 
     <!-- Social: Facebook / Open Graph -->
     <meta property="og:url" content="http://localhost:4000/variety-of-beer/">
     <meta property="og:title" content="variety-of-beer | sinban">
     
-    <meta property="og:image" content="/assets/img/for-post/beers.png">
+    <meta property="og:image" content="/assets/img/for-post/beers-small.png">
     
     <meta property="og:description" content="INN's encyclodpedia.">
     <meta property="og:site_name" content="INNcyclopedia">
@@ -136,7 +136,7 @@ April 24, 2018
                 <p itemprop="description" class="subtitle"></p>
 
                 
-                    <img src="/assets/img/for-post/beers.png" alt="Imagem de capa" class="post-cover">
+                    <img src="/assets/img/for-post/beers-small.png" alt="Imagem de capa" class="post-cover">
                 
 
                 

diff --git a/_site/display/index.html b/_site/display/index.html
@@ -14,14 +14,14 @@
     <meta name="twitter:title" content="display | sinban">
     <meta name="twitter:description" content="INN's encyclodpedia.">
     
-    <meta property="twitter:image:src" content="../assets/img/for-post/imac.png">
+    <meta property="twitter:image:src" content="/assets/img/for-post/imac-small.png">
     
 
     <!-- Social: Facebook / Open Graph -->
     <meta property="og:url" content="http://localhost:4000/display/">
     <meta property="og:title" content="display | sinban">
     
-    <meta property="og:image" content="../assets/img/for-post/imac.png">
+    <meta property="og:image" content="/assets/img/for-post/imac-small.png">
     
     <meta property="og:description" content="INN's encyclodpedia.">
     <meta property="og:site_name" content="INNcyclopedia">
@@ -136,7 +136,7 @@ April 24, 2018
                 <p itemprop="description" class="subtitle"></p>
 
                 
-                    <img src="../assets/img/for-post/imac.png" alt="Imagem de capa" class="post-cover">
+                    <img src="/assets/img/for-post/imac-small.png" alt="Imagem de capa" class="post-cover">
                 
 
                 <p>Hello Everyone.

diff --git a/_posts/2018-04-24-variety-of-beer.md b/_posts/2018-04-24-variety-of-beer.md
@@ -2,7 +2,7 @@
 layout: post
 title: "variety-of-beer"
 date: 2018-04-24 02:27:12
-image: '/assets/img/for-post/beers.png'
+image: '/assets/img/for-post/beers-small.png'
 description:
 category: ''
 tags:

diff --git a/_posts/2018-04-24-display.md b/_posts/2018-04-24-display.md
@@ -2,7 +2,7 @@
 layout: post
 title: "display"
 date: 2018-04-24 02:13:06
-image: '../assets/img/for-post/imac.png'
+image: '/assets/img/for-post/imac-small.png'
 description:
 category: ''
 tags:
